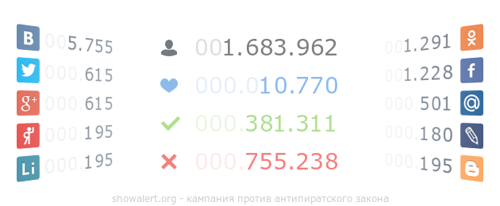
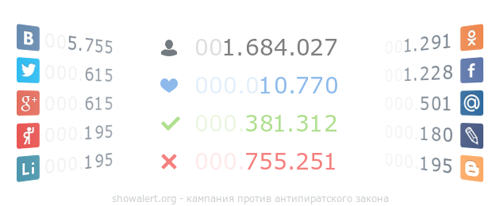
update statistics files for plugins

Changed region(s): [[0.54, 0.1748, 0.69, 0.2913], [0.6, 0.7282, 0.69, 0.8155], [0.63, 0.5534, 0.69, 0.6408]]

diff --git a/votes.js b/votes.js
@@ -1,1 +1,1 @@
-window.lk.votes(32941)
+window.lk.votes(32944)
